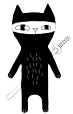
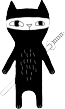
cucumber

Changed region(s): [[0.0, 0.0, 0.9846, 1.0], [0.3077, 0.4679, 0.3385, 0.5229]]

diff --git a/code/main.py b/code/main.py
@@ -1,62 +1,97 @@
 import pygame 
+import math
 from sys import exit
 
 
 pygame.init() #initializing pygame
 
+
+isgameactive= True
 screen=pygame.display.set_mode((800,400)) #creating display screen
-pygame.display.set_caption('Katana Run!')
-clock = pygame.time.Clock()
+pygame.display.set_caption('Katana Run!') #naming the game
+clock = pygame.time.Clock() #for fps stability
 font= pygame.font.Font('font/Pixeltype.ttf',50)
 
 
-#creating character surface
-background_surf= pygame.image.load('images/backgrounds.png').convert_alpha() #convert_alpha: python analizes images much easier
+#creating surface and importing images:  
+background_surf= pygame.image.load('images/sky2.png').convert_alpha() #convert_alpha: python analizes images much easier
+background_width= background_surf.get_width()
 ground_surf= pygame.image.load('images/ground.png').convert_alpha()
 
+#infinite sky
+scroll=0
+tiles= math.ceil(800 / background_width) +1
+
+#characters and snail:
 player_surf= pygame.image.load('images\katana kedy.png').convert_alpha()
-player_rect= player_surf.get_rect(midbottom= (60,281))
+player_rect= player_surf.get_rect(midbottom= (100,270))
 player_gravity= 0
 
-snail_surf = pygame.image.load('images/iskelet.png').convert_alpha()
-snail_rect = snail_surf.get_rect(midbottom= (500,280))
+cucumber_surf = pygame.image.load('images/cucumber.png').convert_alpha()
+cucumber_rect = cucumber_surf.get_rect(midbottom= (500,270))
 
 score_surf= font.render('my game',True,'Black')
 score_rect= score_surf.get_rect(center= (400,50)) 
 
+
 while True: 
+    
     for event in pygame.event.get(): #looking for inputs, event for real time actions 
         if event.type == pygame.QUIT: 
             pygame.quit()
             exit()
-        if event.type == pygame.MOUSEBUTTONDOWN and player_rect.bottom >=281: #down and up: clicking or not  
-            if player_rect.collidepoint(event.pos): 
-                   player_gravity = -20
-                    
-        if event.type == pygame.KEYDOWN: #check if there is a keyboard button have been pressed         
-             if event.key == pygame.K_SPACE and player_rect.bottom >=281 :
+                
+        if isgameactive: 
+            for i in range(0,tiles):
+                screen.blit(background_surf,(i*background_width + scroll,0))
+    
+    
+                scroll -=5
+                if abs(scroll) > background_width:
+                    scroll=0
+    
+               
+            if event.type == pygame.MOUSEBUTTONDOWN and player_rect.bottom >=265: #down and up: clicking or not  
+                if player_rect.collidepoint(event.pos): 
                     player_gravity = -20
-                                     
+                        
+            if event.type == pygame.KEYDOWN: #check if there is a keyboard button have been pressed         
+                if event.key == pygame.K_SPACE and player_rect.bottom >=265 :
+                        player_gravity = -20
+                        
+        else:
+            if event.type == pygame.KEYDOWN: #or event.key == pygame.MOUSEBUTTONDOWN:
+                isgameactive=  True
+                cucumber_rect.left= 1000
+                                        
     #the longer you fall, the faster you fall 
-                 
-    screen.blit(background_surf,(0,0)) 
-    screen.blit(ground_surf,(0,280)) #block image transfer// putting to surface 
-    #pygame.draw.rect(screen,'black',score_rect) 
-    #pygame.draw.line(screen,'gold',(0,0),(800,400),10)
-    screen.blit(score_surf,score_rect)
+    
+    if isgameactive:
+                     
+        screen.blit(background_surf,(0,0)) 
+        screen.blit(ground_surf,(0,265)) #block image transfer// putting to surface 
+        #pygame.draw.rect(screen,'black',score_rect) 
+        #pygame.draw.line(screen,'gold',(0,0),(800,400),10)
+        screen.blit(score_surf,score_rect)
 
-    snail_rect.x -=4
-    if snail_rect.right <=0: snail_rect.left = 800
-    screen.blit(snail_surf,snail_rect)
+        cucumber_rect.x -=4
+        if cucumber_rect.right <=0: cucumber_rect.left = 800
+        screen.blit(cucumber_surf,cucumber_rect)
+        
+    
+        #player:
+        player_gravity +=1
+        player_rect.y += player_gravity
+        if player_rect.bottom >=265: player_rect.bottom = 270
+        screen.blit(player_surf,player_rect)
+        
+        #collison
+        if cucumber_rect.colliderect(player_rect): #player and snail if thouch  
+            isgameactive = False
     
     
-    #player:
-    player_gravity +=1
-    player_rect.y += player_gravity
-    if player_rect.bottom >=280: player_rect.bottom = 281
-    screen.blit(player_surf,player_rect)
-    
-    
+    #else: 
+        
     
     #-----------stuff--------------------
     #keys= pygame.key.get_pressed() ##outputs 0 or 1, basılanları saklar?    
